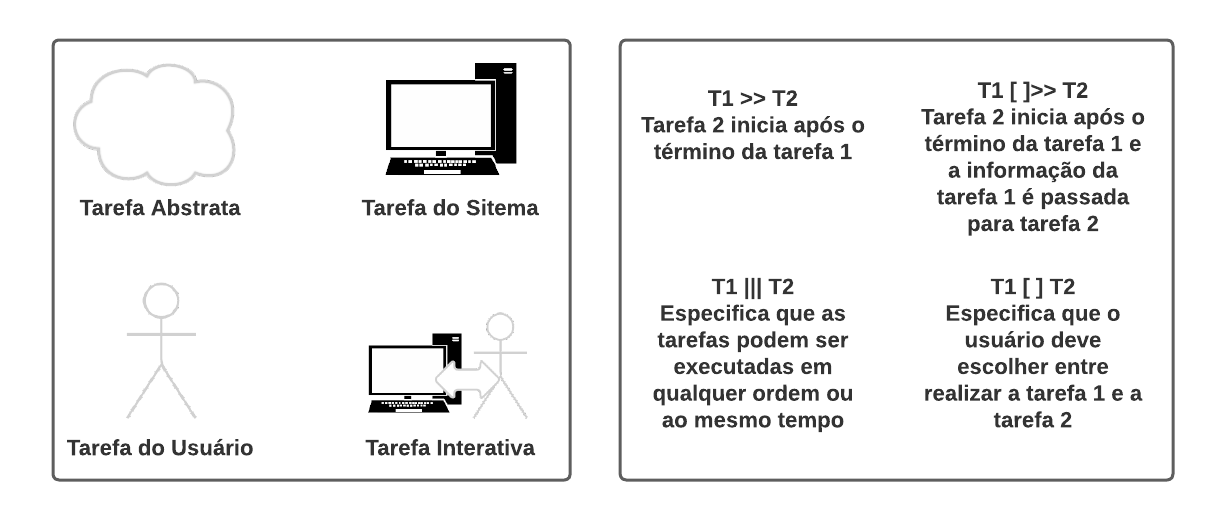
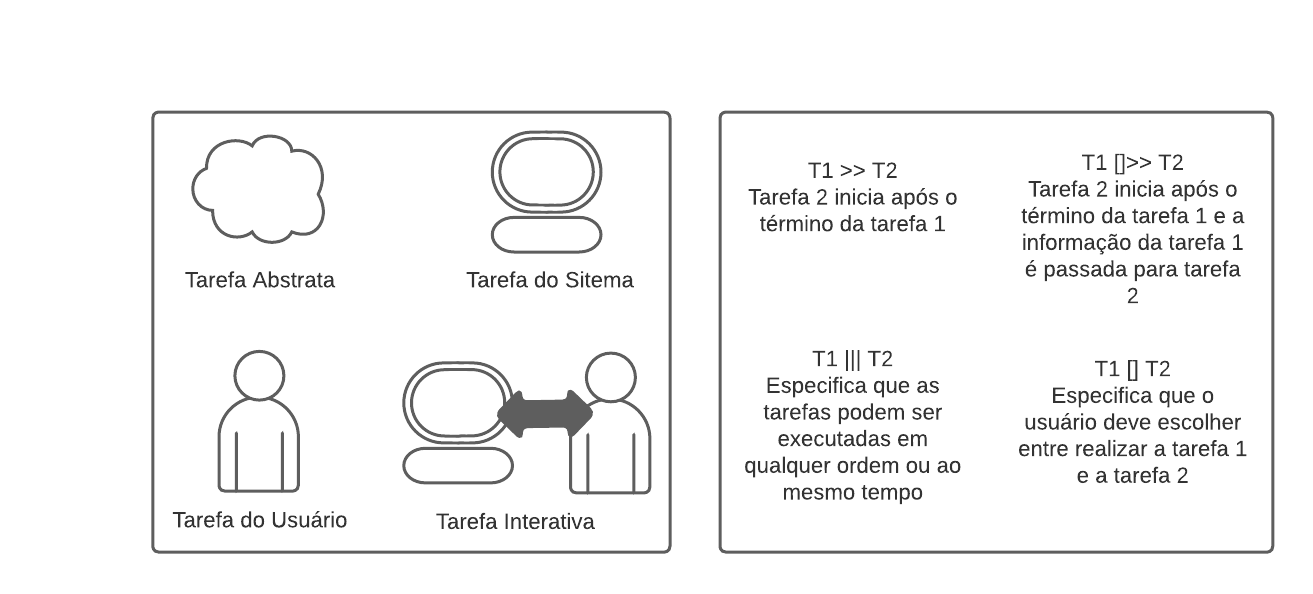
docs: Modificação das imagens da CTT #74

diff --git a/docs/analise_requisitos/analise_tarefas.md b/docs/analise_requisitos/analise_tarefas.md
@@ -131,12 +131,12 @@ Assim como na análise de tarefas haverão diferentes níveis hierárquicos.</p>
 
 Essas relações entre tarefas podem ser observadas na Figura 3, logo a seguir.</p>
 
-### CTT Acessar um curso
+### CTT Acessar curso
 
 <img title="a title" alt="CTT Acessar Curso" src="https://raw.githubusercontent.com/Interacao-Humano-Computador/2023.1-VideoLAN/master/docs/img/analise_tarefas/ctt_acessar_curso.png" width="100%">
 
 <div align="center">
-<p> <b>Figura 3</b>: Árvore de Tarefas Concorrentes da tarefa "Acessar um Curso" (Fonte: BOSI, Rafael. 2023). </p>
+<p> <b>Figura 3</b>: Árvore de Tarefas Concorrentes da tarefa "Acessar Curso" (Fonte: BOSI, Rafael. 2023). </p>
 </div>
 
 <p align="justify">A Figura 4, a seguir, representa uma legenda que pode ser utilizada para interpretar a CTT presente na Figura 3</p>
